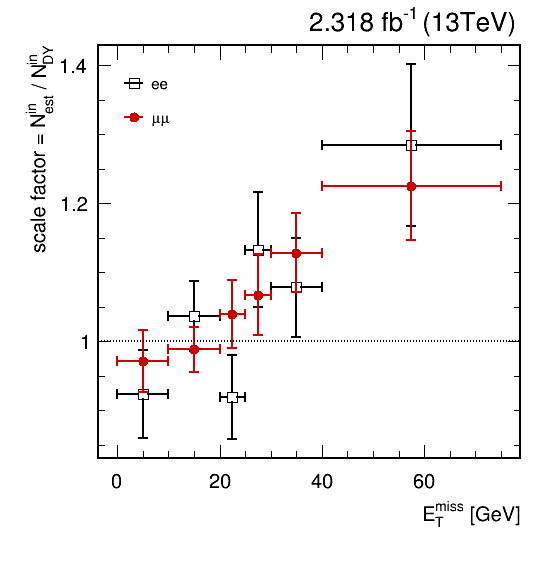
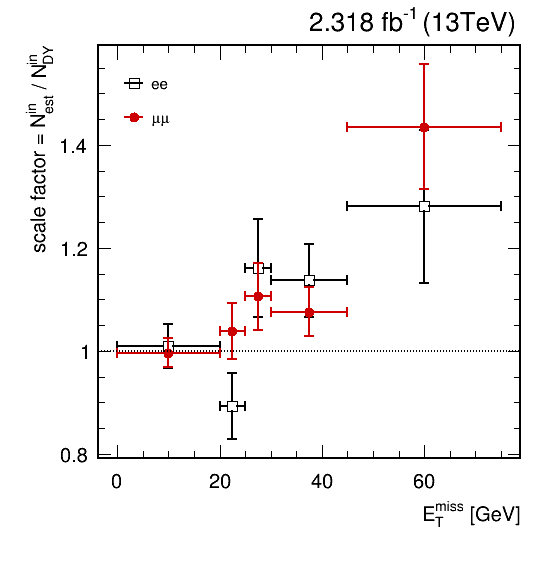
Minor fix in getDYScale.C

diff --git a/datadriven/getDYScale.C b/datadriven/getDYScale.C
@@ -6,10 +6,10 @@
 const float   zmin =  76;  // [GeV]
 const float   zmax = 106;  // [GeV]
 
-const int     nmetcut = 7;
+const int     nmetcut = 6;
 
-const float   metcut [nmetcut] = {-1, 10, 20, 25, 30, 40, -1};  // [GeV]
-const float   metdraw[nmetcut] = { 0, 10, 20, 25, 30, 40, 75};  // [GeV]
+const float   metcut [nmetcut] = {-1, 20, 25, 30, 45, -1};  // [GeV]
+const float   metdraw[nmetcut] = { 0, 20, 25, 30, 45, 75};  // [GeV]
 
 const bool    includeVZ    = true;
 const bool    printResults = true;
@@ -130,8 +130,8 @@ void getDYScale(TString analysis = "TTDM")
   TH1D* h_m2l_ee = (TH1D*)h2_data[ee]->ProjectionY("h_m2l_ee");
   TH1D* h_m2l_mm = (TH1D*)h2_data[mm]->ProjectionY("h_m2l_mm");
 
-  bin_zmin = h_m2l_ee->FindBin(zmin);
-  bin_zmax = h_m2l_ee->FindBin(zmax);
+  bin_zmin = h_m2l_ee->FindBin(zmin);    // [zmin, zmax)
+  bin_zmax = h_m2l_ee->FindBin(zmax)-1;  // [zmin, zmax)
 
   float n_ee = h_m2l_ee->Integral(bin_zmin, bin_zmax);
   float n_mm = h_m2l_mm->Integral(bin_zmin, bin_zmax);
@@ -158,8 +158,8 @@ void getDYScale(TString analysis = "TTDM")
 
   for (int j=0; j<nmetcut-1; j++)
     {
-      bin_metmin = (metcut[j]   > 0) ? h2_data[ee]->GetXaxis()->FindBin(metcut[j])   : -1;
-      bin_metmax = (metcut[j+1] > 0) ? h2_data[ee]->GetXaxis()->FindBin(metcut[j+1]) : -1;
+      bin_metmin = (metcut[j]   > 0) ? h2_data[ee]->GetXaxis()->FindBin(metcut[j])     : -1;  // [metmin, metmax)
+      bin_metmax = (metcut[j+1] > 0) ? h2_data[ee]->GetXaxis()->FindBin(metcut[j+1])-1 : -1;  // [metmin, metmax)
 
       if (printResults)
 	{
@@ -213,8 +213,8 @@ void getDYScale(TString analysis = "TTDM")
       mgraph[k]->GetXaxis()->SetTitle("E_{T}^{miss} [GeV]");
       mgraph[k]->GetYaxis()->SetTitle("R^{out/in} = N^{out} / N^{in}");
 
-      mgraph[k]->SetMinimum(-0.01);
-      mgraph[k]->SetMaximum(+0.33);
+      mgraph[k]->SetMinimum(-0.06);
+      mgraph[k]->SetMaximum(+0.40);
 
       DrawLegend(0.22, 0.83, (TObject*)graph_R_data[k], " " + lchannel[k] + " estimated (data)");
       DrawLegend(0.22, 0.77, (TObject*)graph_R_dy  [k], " " + lchannel[k] + " DY");
